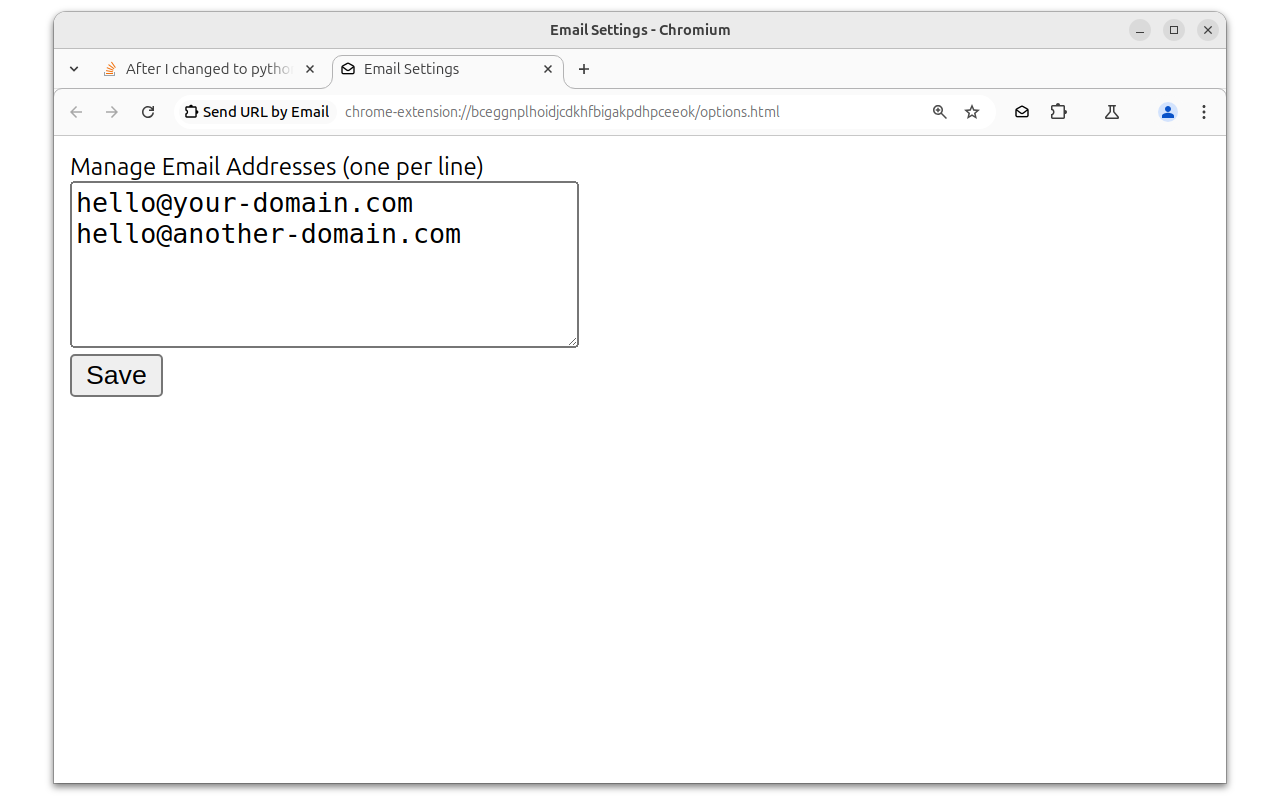
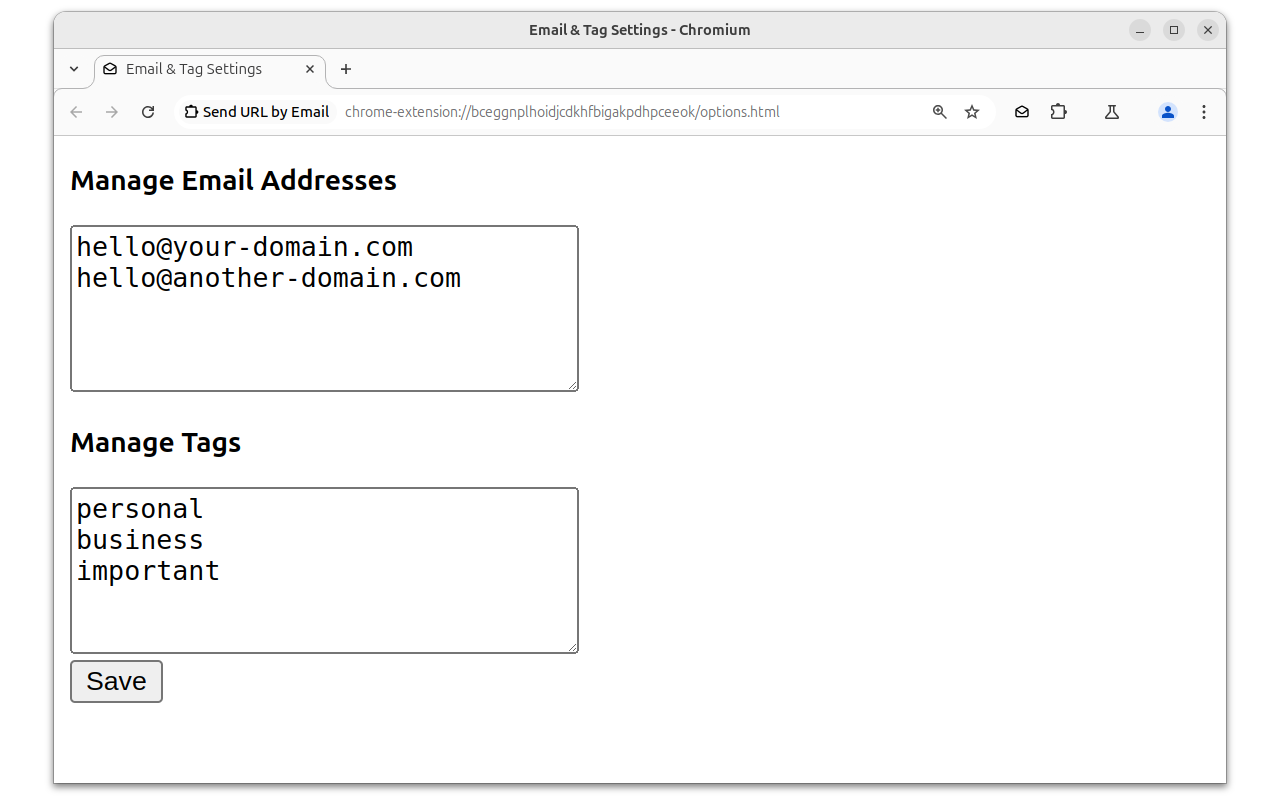
feat: display options and UI improvements
- Add compact mode option (reduced spacing)
- Add sticky header option
- Add configurable top/bottom send buttons
- Add "show name only" for mailbox format emails
- Add grid layout option for tags and emails
- Parse mailbox format "Name <email>" to display only name
- Validate unique display names when saving
- Dynamic popup width based on content
- Expanded default emails and tags for demo

diff --git a/popup.js b/popup.js
@@ -3,10 +3,72 @@ document.addEventListener("DOMContentLoaded", async function () {
   const tagListDiv = document.getElementById("tag-list");
   const sendButton = document.getElementById("send-email");
 
-  let {emails, tags, noDefaultTag, tagsInSubject, tagsInBody, tagPositionSubject, tagPositionBody} =
-    await chrome.storage.sync.get(["emails", "tags", "noDefaultTag", "tagsInSubject", "tagsInBody", "tagPositionSubject", "tagPositionBody"]);
-  if (!emails) emails = ["example@example.com", "test@test.com"]; // Default emails
-  if (!tags) tags = ["Important", "Work", "Personal"]; // Default tags
+  let {emails, tags, compactMode, stickyHeader, showTopSendButton, showBottomSendButton, showNameOnly, emailsGridLayout, noDefaultTag, tagsInSubject, tagsInBody, tagPositionSubject, tagPositionBody, tagsGridLayout} =
+    await chrome.storage.sync.get(["emails", "tags", "compactMode", "stickyHeader", "showTopSendButton", "showBottomSendButton", "showNameOnly", "emailsGridLayout", "noDefaultTag", "tagsInSubject", "tagsInBody", "tagPositionSubject", "tagPositionBody", "tagsGridLayout"]);
+  if (!emails) emails = [
+    "Alice Cooper <alice.cooper@rockmail.com>",
+    "bob.smith@example.org",
+    "Charlie Brown <charlie@peanuts.io>",
+    "diana.prince@amazon.ws",
+    "Edward Norton <ed.norton@fightclub.net>",
+    "frank@sinatra.music",
+    "Grace Hopper <grace.hopper@navy.mil>",
+    "hank.williams@country.fm",
+    "Ivy League <ivy@harvard.edu>",
+    "jack.sparrow@blackpearl.sea",
+    "Karen Miller <k.miller@corporate.biz>",
+    "leo@dicaprio.actor",
+    "Maria Santos <maria.santos@barcelona.es>",
+    "nick.fury@shield.gov",
+    "Olivia Pope <olivia@gladiators.dc>"
+  ];
+  if (!tags) tags = [
+    "Work", "Personal", "Urgent", "Follow-up", "Research",
+    "Dev", "Documentation", "Bug", "Feature", "Review",
+    "Later", "Archive", "Inspiration", "Tools", "Learning",
+    "News", "Reference", "Ideas", "Meeting", "Project"
+  ];
+
+  // Apply compact mode if enabled
+  if (compactMode) {
+    document.body.classList.add("compact");
+  }
+
+  // Apply sticky header if enabled
+  if (stickyHeader) {
+    document.querySelector(".sticky-header").classList.add("sticky");
+  }
+
+  // Hide bottom send button if disabled
+  if (showBottomSendButton === false) {
+    sendButton.style.display = "none";
+  }
+
+  // Apply grid layout if enabled
+  if (tagsGridLayout) {
+    tagListDiv.classList.add("grid");
+  }
+
+  // Create separate container for emails without mailbox format (plain emails)
+  let emailGridDiv = null;
+  let emailPlainDiv = null;
+
+  if (showNameOnly && emailsGridLayout) {
+    // Split into grid (for mailbox format) and list (for plain emails)
+    emailGridDiv = document.createElement("div");
+    emailGridDiv.classList.add("list", "grid");
+    emailPlainDiv = document.createElement("div");
+    emailPlainDiv.classList.add("list");
+  }
+
+  // Parse mailbox format: "Name <email>" -> { displayName: "Name", email: "email" }
+  function parseMailbox(mailbox) {
+    const match = mailbox.match(/^(.+?)\s*<([^>]+)>$/);
+    if (match) {
+      return { displayName: match[1].trim(), email: match[2].trim() };
+    }
+    return { displayName: mailbox, email: mailbox };
+  }
 
   tags.forEach((tag, index) => {
     const label = document.createElement("label");
@@ -17,22 +79,43 @@ document.addEventListener("DOMContentLoaded", async function () {
     label.appendChild(checkbox);
     label.appendChild(document.createTextNode(tag));
     tagListDiv.appendChild(label);
-    tagListDiv.appendChild(document.createElement("br"));
   });
 
   emails.forEach((email, index) => {
+    const parsed = parseMailbox(email);
+    const hasMailboxFormat = parsed.displayName !== parsed.email;
     const label = document.createElement("label");
     const checkbox = document.createElement("input");
     checkbox.type = "checkbox";
-    checkbox.value = email;
+    checkbox.value = parsed.email;
     if (index === 0) checkbox.checked = true; // First email preselected
     label.appendChild(checkbox);
-    label.appendChild(document.createTextNode(email));
-    emailListDiv.appendChild(label);
-    emailListDiv.appendChild(document.createElement("br"));
+    label.appendChild(document.createTextNode(showNameOnly ? parsed.displayName : email));
+
+    // If grid mode: put mailbox format emails in grid, plain emails in list
+    if (emailGridDiv && emailPlainDiv) {
+      if (hasMailboxFormat) {
+        emailGridDiv.appendChild(label);
+      } else {
+        emailPlainDiv.appendChild(label);
+      }
+    } else {
+      emailListDiv.appendChild(label);
+    }
   });
 
-  sendButton.addEventListener("click", async () => {
+  // Append the split containers if used
+  if (emailGridDiv && emailPlainDiv) {
+    if (emailGridDiv.children.length > 0) {
+      emailListDiv.appendChild(emailGridDiv);
+    }
+    if (emailPlainDiv.children.length > 0) {
+      emailListDiv.appendChild(emailPlainDiv);
+    }
+  }
+
+  // Send email function
+  async function sendEmail() {
     let selectedTags = Array.from(document.querySelectorAll("#tag-list input[type='checkbox']:checked"))
       .map(cb => `[${cb.value}]`).join(" ");
     let selectedEmails = Array.from(document.querySelectorAll("#email-list input[type='checkbox']:checked"))
@@ -67,5 +150,24 @@ document.addEventListener("DOMContentLoaded", async function () {
     let mailtoLink = `mailto:${selectedEmails.join(",")}?subject=${subject}&body=${body}`;
 
     window.location.href = mailtoLink;
-  });
+  }
+
+  sendButton.addEventListener("click", sendEmail);
+
+  // Add top send button if option is enabled
+  if (showTopSendButton) {
+    // Use setTimeout to ensure DOM is fully rendered
+    setTimeout(() => {
+      const needsScroll = document.body.scrollHeight > window.innerHeight;
+      const noBottomButton = showBottomSendButton === false;
+      // Show top button if scrolling needed OR bottom button is hidden
+      if (needsScroll || noBottomButton) {
+        const topSendButton = document.createElement("button");
+        topSendButton.textContent = "Send";
+        topSendButton.addEventListener("click", sendEmail);
+        const stickyHeader = document.querySelector(".sticky-header");
+        stickyHeader.appendChild(topSendButton);
+      }
+    }, 50);
+  }
 });

diff --git a/options.js b/options.js
@@ -1,17 +1,61 @@
 document.addEventListener("DOMContentLoaded", async function () {
+  const compactModeCheckbox = document.getElementById("compact-mode");
+  const stickyHeaderCheckbox = document.getElementById("sticky-header");
+  const showTopSendButtonCheckbox = document.getElementById("show-top-send-button");
+  const showBottomSendButtonCheckbox = document.getElementById("show-bottom-send-button");
   const emailInput = document.getElementById("email-input");
+  const showNameOnlyCheckbox = document.getElementById("show-name-only");
+  const emailsGridLayoutCheckbox = document.getElementById("emails-grid-layout");
   const tagInput = document.getElementById("tag-input");
   const noDefaultTagCheckbox = document.getElementById("no-default-tag");
+  const tagsGridLayoutCheckbox = document.getElementById("tags-grid-layout");
   const tagsInSubjectCheckbox = document.getElementById("tags-in-subject");
   const tagsInBodyCheckbox = document.getElementById("tags-in-body");
   const saveButton = document.getElementById("save");
 
-  let {emails, tags, noDefaultTag, tagsInSubject, tagsInBody, tagPositionSubject, tagPositionBody} =
-    await chrome.storage.sync.get(["emails", "tags", "noDefaultTag", "tagsInSubject", "tagsInBody", "tagPositionSubject", "tagPositionBody"]);
+  // Parse mailbox format: "Name <email>" -> displayName
+  function getDisplayName(mailbox) {
+    const match = mailbox.match(/^(.+?)\s*<[^>]+>$/);
+    return match ? match[1].trim() : mailbox;
+  }
 
-  if (emails) emailInput.value = emails.join("\n");
-  if (tags) tagInput.value = tags.join("\n");
+  let {emails, tags, compactMode, stickyHeader, showTopSendButton, showBottomSendButton, showNameOnly, emailsGridLayout, noDefaultTag, tagsGridLayout, tagsInSubject, tagsInBody, tagPositionSubject, tagPositionBody} =
+    await chrome.storage.sync.get(["emails", "tags", "compactMode", "stickyHeader", "showTopSendButton", "showBottomSendButton", "showNameOnly", "emailsGridLayout", "noDefaultTag", "tagsGridLayout", "tagsInSubject", "tagsInBody", "tagPositionSubject", "tagPositionBody"]);
+
+  if (!emails || emails.length === 0) emails = [
+    "Alice Cooper <alice.cooper@rockmail.com>",
+    "bob.smith@example.org",
+    "Charlie Brown <charlie@peanuts.io>",
+    "diana.prince@amazon.ws",
+    "Edward Norton <ed.norton@fightclub.net>",
+    "frank@sinatra.music",
+    "Grace Hopper <grace.hopper@navy.mil>",
+    "hank.williams@country.fm",
+    "Ivy League <ivy@harvard.edu>",
+    "jack.sparrow@blackpearl.sea",
+    "Karen Miller <k.miller@corporate.biz>",
+    "leo@dicaprio.actor",
+    "Maria Santos <maria.santos@barcelona.es>",
+    "nick.fury@shield.gov",
+    "Olivia Pope <olivia@gladiators.dc>"
+  ];
+  if (!tags || tags.length === 0) tags = [
+    "Work", "Personal", "Urgent", "Follow-up", "Research",
+    "Dev", "Documentation", "Bug", "Feature", "Review",
+    "Later", "Archive", "Inspiration", "Tools", "Learning",
+    "News", "Reference", "Ideas", "Meeting", "Project"
+  ];
+
+  emailInput.value = emails.join("\n");
+  tagInput.value = tags.join("\n");
+  if (compactMode) compactModeCheckbox.checked = true;
+  if (stickyHeader) stickyHeaderCheckbox.checked = true;
+  if (showTopSendButton) showTopSendButtonCheckbox.checked = true;
+  showBottomSendButtonCheckbox.checked = showBottomSendButton !== false; // Default true
+  if (showNameOnly) showNameOnlyCheckbox.checked = true;
+  if (emailsGridLayout) emailsGridLayoutCheckbox.checked = true;
   if (noDefaultTag) noDefaultTagCheckbox.checked = true;
+  if (tagsGridLayout) tagsGridLayoutCheckbox.checked = true;
 
   // Default: tags in subject
   tagsInSubjectCheckbox.checked = tagsInSubject !== false;
@@ -27,12 +71,30 @@ document.addEventListener("DOMContentLoaded", async function () {
   saveButton.addEventListener("click", async () => {
     let emails = emailInput.value.split("\n").map(e => e.trim()).filter(e => e);
     let tags = tagInput.value.split("\n").map(t => t.trim()).filter(t => t);
+    let compactMode = compactModeCheckbox.checked;
+    let showNameOnly = showNameOnlyCheckbox.checked;
+
+    // Check for duplicate display names in emails (only relevant for show name only)
+    if (showNameOnly) {
+      const displayNames = emails.map(getDisplayName);
+      const duplicates = displayNames.filter((name, index) => displayNames.indexOf(name) !== index);
+      if (duplicates.length > 0) {
+        alert(`Duplicate names found: ${[...new Set(duplicates)].join(", ")}\nPlease use unique names.`);
+        return;
+      }
+    }
+
+    let stickyHeader = stickyHeaderCheckbox.checked;
+    let showTopSendButton = showTopSendButtonCheckbox.checked;
+    let showBottomSendButton = showBottomSendButtonCheckbox.checked;
+    let emailsGridLayout = emailsGridLayoutCheckbox.checked;
     let noDefaultTag = noDefaultTagCheckbox.checked;
+    let tagsGridLayout = tagsGridLayoutCheckbox.checked;
     let tagsInSubject = tagsInSubjectCheckbox.checked;
     let tagsInBody = tagsInBodyCheckbox.checked;
     let tagPositionSubject = document.querySelector('input[name="tag-position-subject"]:checked').value;
     let tagPositionBody = document.querySelector('input[name="tag-position-body"]:checked').value;
-    await chrome.storage.sync.set({emails, tags, noDefaultTag, tagsInSubject, tagsInBody, tagPositionSubject, tagPositionBody});
+    await chrome.storage.sync.set({emails, tags, compactMode, stickyHeader, showTopSendButton, showBottomSendButton, showNameOnly, emailsGridLayout, noDefaultTag, tagsGridLayout, tagsInSubject, tagsInBody, tagPositionSubject, tagPositionBody});
     alert("Saved!");
   });
 });

diff --git a/options.html b/options.html
@@ -6,10 +6,42 @@
           defer></script>
 </head>
 <body>
+<h3>Display</h3>
+<label>
+  <input type="checkbox" id="compact-mode">
+  Compact mode (reduced spacing)
+</label>
+<br>
+<label>
+  <input type="checkbox" id="sticky-header">
+  Sticky header
+</label>
+<br>
+<label>
+  <input type="checkbox" id="show-top-send-button">
+  Show top send button when scrolling needed
+</label>
+<br>
+<label>
+  <input type="checkbox" id="show-bottom-send-button" checked>
+  Show bottom send button
+</label>
+
 <h3>Manage Email Addresses</h3>
 <textarea id="email-input"
           rows="5"
           cols="30"></textarea>
+<br>
+<label>
+  <input type="checkbox" id="show-name-only">
+  Show name only
+</label>
+<br>
+<label>
+  <input type="checkbox" id="emails-grid-layout">
+  Grid layout (requires "Show name only")
+</label>
+
 <h3>Manage Tags</h3>
 <textarea id="tag-input"
           rows="5"
@@ -18,6 +50,11 @@
 <label>
   <input type="checkbox" id="no-default-tag">
   No default tag auto selection
+</label>
+<br>
+<label>
+  <input type="checkbox" id="tags-grid-layout">
+  Grid layout
 </label>
 <h3>Include Tags in</h3>
 <label>

diff --git a/popup.css b/popup.css
@@ -1,16 +1,53 @@
+body {
+  width: max-content;
+  min-width: 200px;
+  max-width: 800px;
+  padding: 0 10px 10px 10px;
+}
+
+.sticky-header h3 {
+  margin: 0;
+  padding: 10px 0 5px 0;
+}
+
+.sticky-header.sticky {
+  position: sticky;
+  top: 0;
+  background: white;
+  padding-bottom: 5px;
+  z-index: 10;
+}
+
 label {
   display: flex;
   align-items: center;
-  gap: 5px; /* Abstand zwischen Checkbox und E-Mail */
-  white-space: nowrap; /* Verhindert Umbrüche */
+  gap: 4px;
+  white-space: nowrap;
 }
 
 .group {
   margin-bottom: 10px;
-  padding: 5px;
+  padding: 5px 10px;
   border: 1px solid #ccc;
   border-radius: 5px;
 }
+
 .list {
-  margin-left: 10px;
+  display: flex;
+  flex-direction: column;
+  gap: 8px;
+}
+
+.compact .list {
+  gap: 1px;
+}
+
+.list.grid {
+  display: grid;
+  grid-template-columns: repeat(3, 1fr);
+  gap: 4px 16px;
+}
+
+.compact .list.grid {
+  gap: 2px 12px;
 }

diff --git a/popup.html b/popup.html
@@ -8,7 +8,9 @@
           defer></script>
 </head>
 <body>
-<h3>Send URL by Email</h3>
+<div class="sticky-header">
+  <h3>Send URL by Email</h3>
+</div>
 <div class="group">
   <h4>Tags</h4>
   <div id="tag-list"
